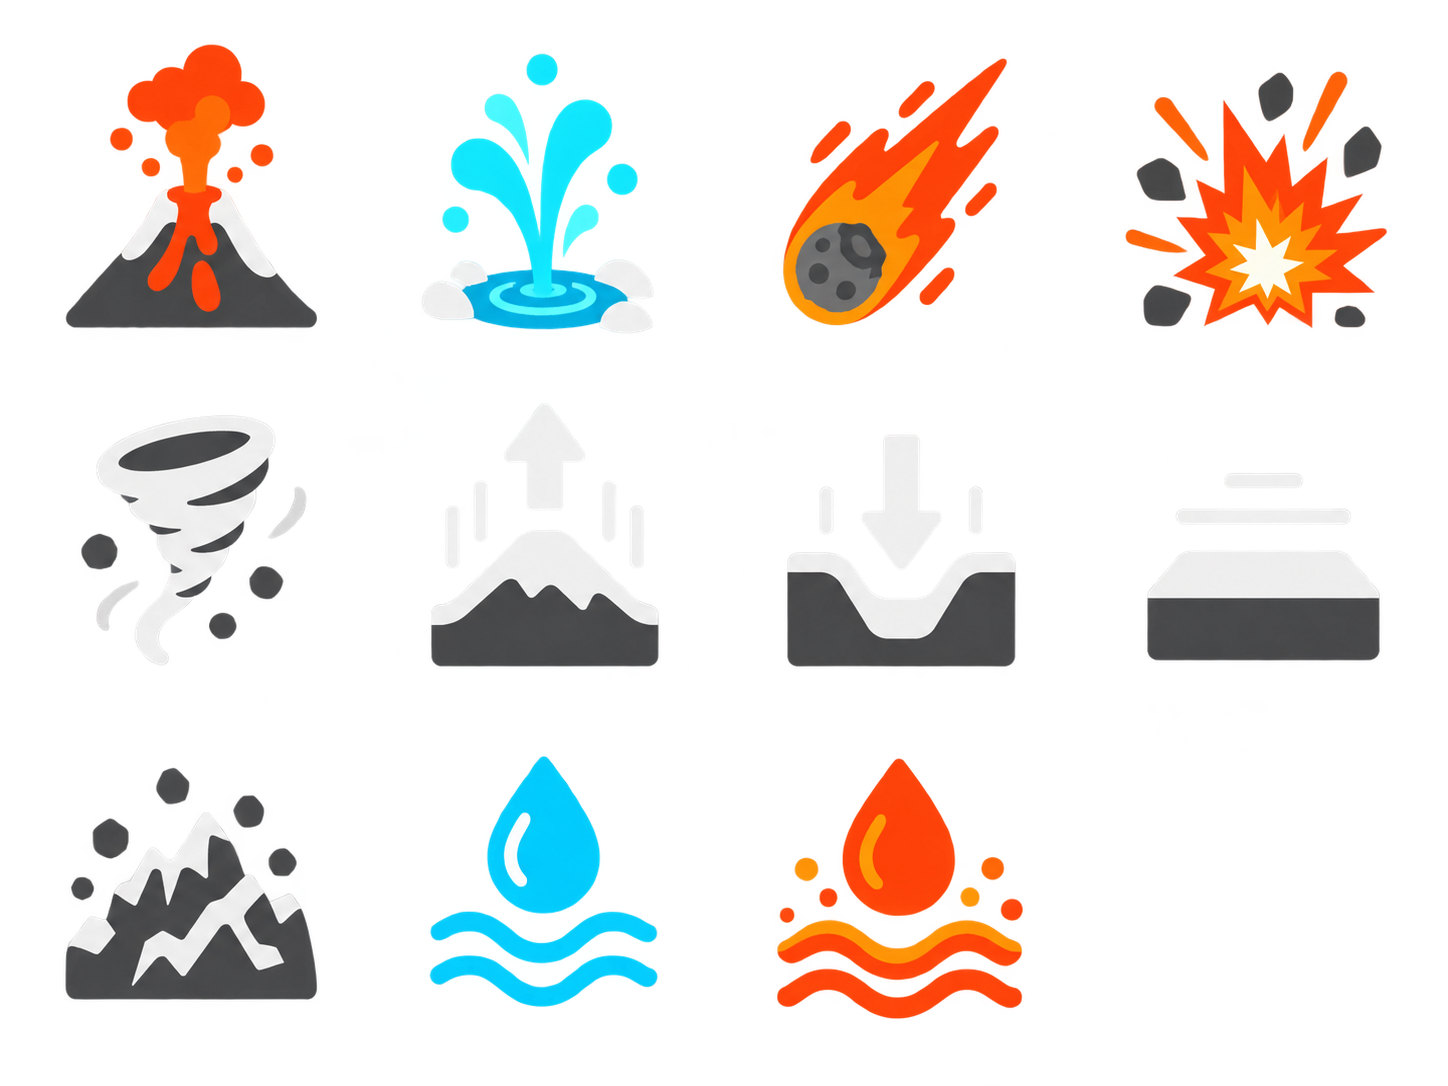
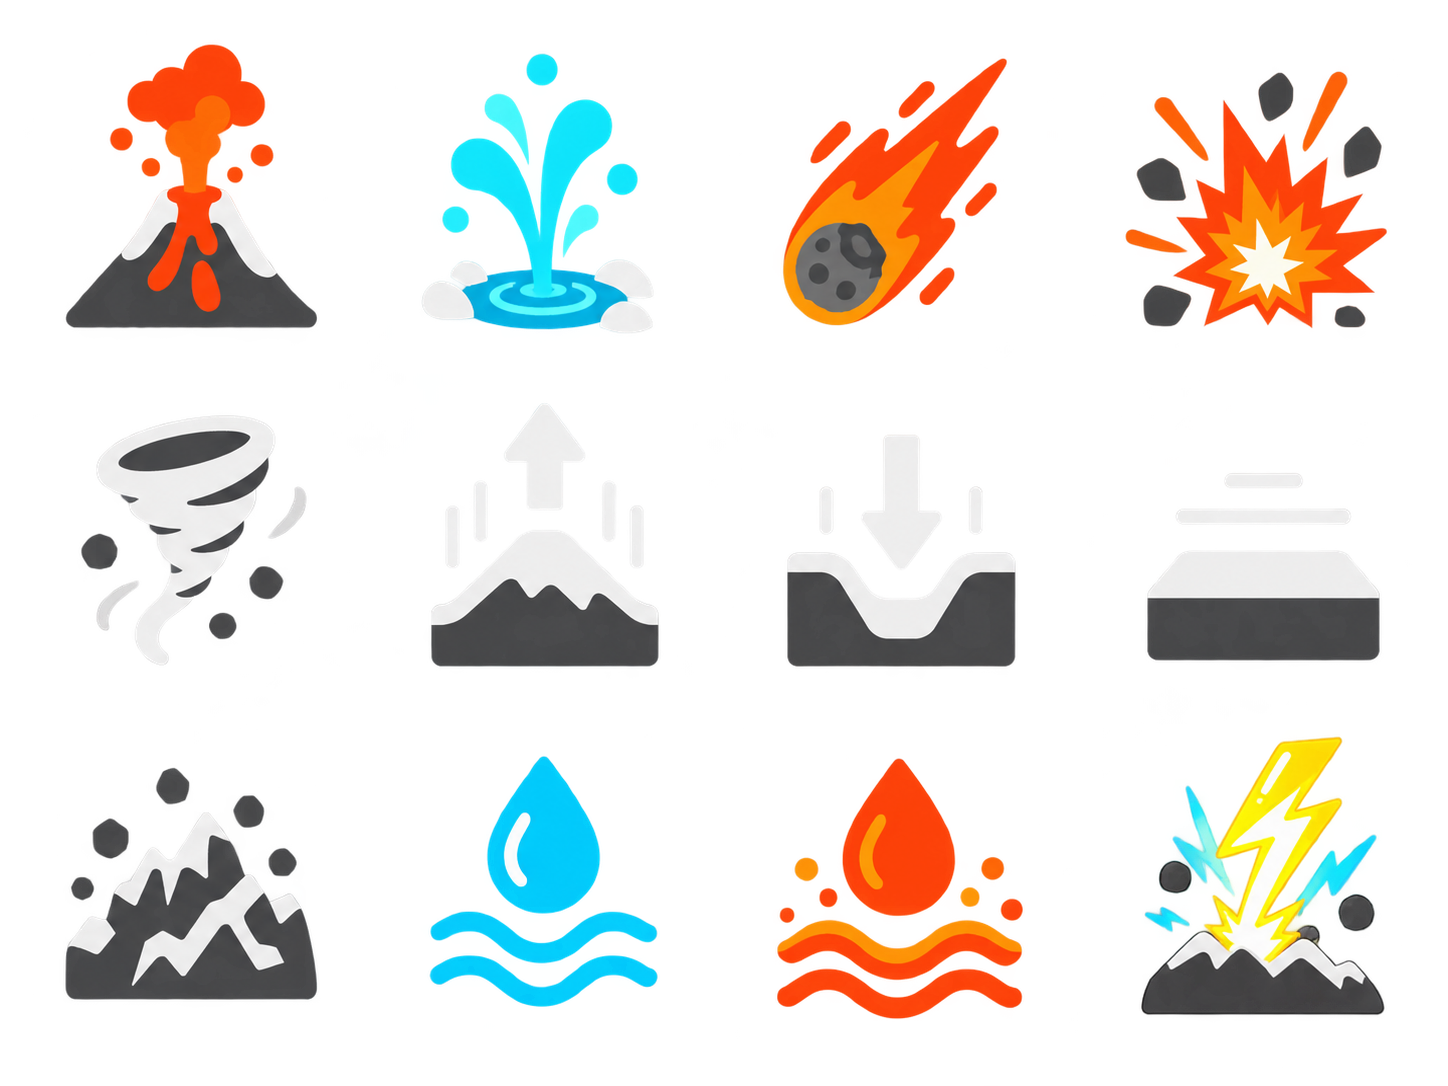
lightning tool

Changed region(s): [[0.7769, 0.6685, 0.9634, 0.942]]

diff --git a/src/Application.cpp b/src/Application.cpp
@@ -185,6 +185,7 @@ class AppState {
         Spring,
         Meteor,
         Explosion,
+        Lightning,
         TornadoOrigin,
         TornadoDirection,
         TerrainUp,
@@ -207,6 +208,7 @@ class AppState {
     double previous_;
     double simulation_time_ = 0.0;
     double day_time_ = 0.0;
+    std::mt19937 random_{ std::random_device{}() };
 
 public:
     AppState(GLFWwindow* window, const char* executable_path)
@@ -251,7 +253,8 @@ void AppState::frame() {
     Vec3 wind_direction{ std::cos(wind_direction_), 0.0f, std::sin(wind_direction_) };
     float cloud_top = cloud_base_ + cloud_thickness_;
     if (particle_simulation_enabled_)
-        volcanoes_.update(terrain_, elapsed, water_level_, wind_speed_, wind_direction);
+        volcanoes_.update(
+            terrain_, elapsed, water_level_, wind_speed_, wind_direction, meteor_size_);
     auto impact_strengths = volcanoes_.take_impact_strengths();
     if (camera_shake_enabled_) {
         for (float strength : impact_strengths)
@@ -876,8 +879,15 @@ void AppState::frame() {
                         volcanoes_.explosion_water_impact(
                             { position.x, water_level_, position.z }, physical_size);
                         explosions_.explode(position, physical_size);
-                    }
-                    if (placement_ != PlacementTool::Meteor)
+                    } else if (placement_ == PlacementTool::Lightning)
+                        lightning_.spawn_at(terrain_,
+                            position,
+                            water_level_,
+                            cloud_base_,
+                            cloud_top,
+                            volcanoes_);
+                    if (placement_ != PlacementTool::Meteor &&
+                        placement_ != PlacementTool::Lightning)
                         placement_ = PlacementTool::None;
                     placement_miss_ = false;
                 }
@@ -1048,6 +1058,7 @@ void AppState::frame() {
             { PlacementTool::RoughenTerrain, "##roughen", "Roughen terrain", 8 },
             { PlacementTool::AddWater, "##water", "Add water", 9 },
             { PlacementTool::AddLava, "##lava", "Add lava", 10 },
+            { PlacementTool::Lightning, "##lightning", "Lightning strike", 11 },
         };
         const ImTextureID placement_texture =
             static_cast<ImTextureID>(static_cast<intptr_t>(placement_tools_texture_));
@@ -1084,6 +1095,7 @@ void AppState::frame() {
                 : placement_ == PlacementTool::Spring    ? "Click terrain to place a spring."
                 : placement_ == PlacementTool::Meteor    ? "Click terrain to target a meteor."
                 : placement_ == PlacementTool::Explosion ? "Click terrain to detonate an explosion."
+                : placement_ == PlacementTool::Lightning ? "Click terrain to call down lightning."
                 : placement_ == PlacementTool::TornadoOrigin
                     ? "Click terrain to set the tornado origin."
                 : placement_ == PlacementTool::TornadoDirection
@@ -1142,19 +1154,34 @@ void AppState::frame() {
             selected_source_type_ = SourceType::None;
             panning_ = false;
             rotating_ = false;
-            Vec3 direction{ forward.x, 0, forward.z };
-            if (dot(direction, direction) < 0.001f)
-                direction = { 0, 0, 1 };
-            direction = normalize(direction);
-            aircraft_forward_ = direction;
+            constexpr float spawn_edge = 950.0f;
+            std::uniform_int_distribution<int> edge_distribution(0, 3);
+            std::uniform_real_distribution<float> edge_position_distribution(-900.0f, 900.0f);
+            float edge_position = edge_position_distribution(random_);
+            Vec3 spawn_position{};
+            switch (edge_distribution(random_)) {
+            case 0:
+                spawn_position = { -spawn_edge, 0, edge_position };
+                break;
+            case 1:
+                spawn_position = { spawn_edge, 0, edge_position };
+                break;
+            case 2:
+                spawn_position = { edge_position, 0, -spawn_edge };
+                break;
+            default:
+                spawn_position = { edge_position, 0, spawn_edge };
+                break;
+            }
+            aircraft_forward_ = normalize(Vec3{ -spawn_position.x, 0, -spawn_position.z });
             aircraft_right_ = normalize(cross(aircraft_forward_, Vec3{ 0, 1, 0 }));
             aircraft_up_ = { 0, 1, 0 };
             aircraft_velocity_ = aircraft_forward_ * 47.5f;
             aircraft_destroyed_ = false;
             Vec3 terrain_normal;
-            float surface = terrain_.surface(target_.x, target_.z, terrain_normal);
-            aircraft_position_ =
-                { target_.x, std::max(surface + 160.0f, water_level_ + 120.0f), target_.z };
+            float surface = terrain_.surface(spawn_position.x, spawn_position.z, terrain_normal);
+            spawn_position.y = std::max(surface + 160.0f, water_level_ + 120.0f);
+            aircraft_position_ = spawn_position;
             flight_camera_distance_ = 55.0273f;
             flight_camera_offset_ =
                 normalize(aircraft_forward_ * -52.0f + Vec3{ 0, 18.0f, 0 }) *
@@ -1178,10 +1205,10 @@ void AppState::frame() {
     ImGui::SetNextWindowPos(
         ImVec2(20 * ui_scale, (toolbar_height + 14.0f) * ui_scale), ImGuiCond_Always);
     ImGui::SetNextWindowBgAlpha(0.78f);
-    // ImGuiViewport* viewport = ImGui::GetMainViewport();
-    // ImGui::SetNextWindowSize(ImVec2(viewport->WorkSize.x / 2, viewport->WorkSize.y - 10),
-    // ImGuiCond_Always);
-    
+    const float panel_height = io.DisplaySize.y * 0.9f;
+    ImGui::SetNextWindowSizeConstraints(
+        ImVec2(0.0f, panel_height), ImVec2(io.DisplaySize.x, panel_height));
+
     static std::string label = "###earthsim";
     bool expanded = ImGui::Begin(label.c_str(),
         nullptr,
@@ -1240,6 +1267,11 @@ void AppState::frame() {
     ImGui::SetNextItemWidth(180 * ui_scale);
     ImGui::SliderFloat(
         "Meteor size", &meteor_size_, 0.1f, 5.0f, "%.2fx", ImGuiSliderFlags_AlwaysClamp);
+    ImGui::SetNextItemWidth(180 * ui_scale);
+    float meteor_frequency = volcanoes_.meteor_frequency();
+    if (ImGui::DragFloat(
+            "Meteor frequency", &meteor_frequency, 1.f, 0.f, 1.e6f, "%.1f / min"))
+        volcanoes_.set_meteor_frequency(meteor_frequency);
     ImGui::SetNextItemWidth(180 * ui_scale);
     ImGui::SliderFloat(
         "Explosion size", &explosion_size_, 0.25f, 5.0f, "%.2fx", ImGuiSliderFlags_AlwaysClamp);

diff --git a/src/Physics.cpp b/src/Physics.cpp
@@ -351,6 +351,11 @@ float Volcanoes::range(float low, float high) {
     return std::uniform_real_distribution<float>(low, high)(random_);
 }
 
+double Volcanoes::meteor_interval() {
+    double rate = std::max(double(meteor_frequency_) / 60.0, 1e-6);
+    return std::exponential_distribution<double>(rate)(random_);
+}
+
 Volcanoes::Volcanoes(const std::filesystem::path& directory, const Terrain& terrain)
     : gpu_(directory, terrain) {
     Vec3 reference = blackbody(1600);
@@ -577,6 +582,14 @@ void Volcanoes::set_spring_spawn_rate(float rate) {
     spring_spawn_rate_ = std::max(0.0f, rate);
 }
 
+float Volcanoes::meteor_frequency() const {
+    return meteor_frequency_;
+}
+
+void Volcanoes::set_meteor_frequency(float frequency) {
+    meteor_frequency_ = frequency;
+}
+
 float Volcanoes::erosion_speed() const {
     return erosion_speed_;
 }
@@ -741,7 +754,8 @@ void Volcanoes::update(Terrain& terrain,
     double elapsed,
     float water_level,
     float wind_speed,
-    Vec3 wind_direction) {
+    Vec3 wind_direction,
+    float meteor_size_scale) {
     constexpr float dt = 1.0f / 120.0f;
     // The shared clock bounds real elapsed time before applying the speed multiplier.
     std::vector<int32_t> erosion_delta;
@@ -751,6 +765,26 @@ void Volcanoes::update(Terrain& terrain,
             terrain.apply_height_deltas(erosion_delta, 1.0f / GpuSimulation::terrain_delta_scale_);
     if (terrain_eroded)
         terrain_changed(terrain);
+
+    if (meteor_frequency_ != scheduled_meteor_frequency_) {
+        scheduled_meteor_frequency_ = meteor_frequency_;
+        until_next_meteor_ = -1;
+    }
+    if (meteor_frequency_ <= 0) {
+        until_next_meteor_ = -1;
+    } else {
+        if (until_next_meteor_ < 0)
+            until_next_meteor_ = meteor_interval();
+        until_next_meteor_ -= elapsed;
+        while (until_next_meteor_ <= 0) {
+            float target_x = range(-900.0f, 900.0f);
+            float target_z = range(-900.0f, 900.0f);
+            Vec3 normal;
+            float target_y = terrain.surface(target_x, target_z, normal);
+            launch_meteor({ target_x, target_y, target_z }, meteor_size_scale);
+            until_next_meteor_ += meteor_interval();
+        }
+    }
 
     accumulator_ += elapsed;
     erosion_readback_accumulator_ += elapsed;
@@ -1151,10 +1185,31 @@ void Lightning::spawn(const Terrain& terrain,
         range(-820, 820) };
     float target_x = std::clamp(origin.x + range(-180, 180), -980.0f, 980.0f);
     float target_z = std::clamp(origin.z + range(-180, 180), -980.0f, 980.0f);
+    spawn_between(terrain, origin, { target_x, 0, target_z }, water_level, particles);
+}
+
+void Lightning::spawn_at(const Terrain& terrain,
+    Vec3 target,
+    float water_level,
+    float cloud_base,
+    float cloud_top,
+    Volcanoes& particles) {
+    target.x = std::clamp(target.x, -980.0f, 980.0f);
+    target.z = std::clamp(target.z, -980.0f, 980.0f);
+    Vec3 origin{ std::clamp(target.x + range(-180, 180), -820.0f, 820.0f),
+        range(cloud_base + 0.33f * (cloud_top - cloud_base), cloud_top - 30.0f),
+        std::clamp(target.z + range(-180, 180), -820.0f, 820.0f) };
+    spawn_between(terrain, origin, target, water_level, particles);
+}
+
+void Lightning::spawn_between(
+    const Terrain& terrain, Vec3 origin, Vec3 target, float water_level, Volcanoes& particles) {
+    target.x = std::clamp(target.x, -980.0f, 980.0f);
+    target.z = std::clamp(target.z, -980.0f, 980.0f);
     Vec3 normal;
-    float ground = terrain.surface(target_x, target_z, normal);
+    float ground = terrain.surface(target.x, target.z, normal);
     bool hits_water = ground < water_level;
-    Vec3 target{ target_x, (hits_water ? water_level : ground) + 1.0f, target_z };
+    target.y = (hits_water ? water_level : ground) + 1.0f;
     Strike strike;
     auto main_path = path(origin, target, 22, 24.0f);
     append_path(strike, main_path, 1.0f, 0.85f);

diff --git a/src/Physics.hpp b/src/Physics.hpp
@@ -104,12 +104,16 @@ private:
     float spring_emission_ = 0;
     float lava_spawn_rate_ = 90.0f;
     float spring_spawn_rate_ = 90.0f;
+    double until_next_meteor_ = -1;
+    float meteor_frequency_ = 1.0f;
+    float scheduled_meteor_frequency_ = 1.0f;
     float particle_lifetime_ = 33.0f;
     float particle_brightness_ = 1.0f;
     float erosion_speed_ = 50.0f;
     bool erosion_simulation_enabled_ = true;
     bool particle_interactions_ = true;
     float range(float low, float high);
+    double meteor_interval();
     void add_surface_particles(
         const Terrain& terrain, Vec3 center, float radius, float spacing, bool water);
 
@@ -146,6 +150,8 @@ public:
     void set_lava_spawn_rate(float rate);
     float spring_spawn_rate() const;
     void set_spring_spawn_rate(float rate);
+    float meteor_frequency() const;
+    void set_meteor_frequency(float frequency);
     float erosion_speed() const;
     void set_erosion_speed(float speed);
     bool erosion_simulation_enabled() const;
@@ -160,8 +166,12 @@ public:
     void lightning_water_impact(Vec3 position, size_t particle_count);
     void add_aircraft_vapor(
         Vec3 position, Vec3 forward, Vec3 right, Vec3 up, size_t particle_pairs);
-    void update(
-        Terrain& terrain, double elapsed, float water_level, float wind_speed, Vec3 wind_direction);
+    void update(Terrain& terrain,
+        double elapsed,
+        float water_level,
+        float wind_speed,
+        Vec3 wind_direction,
+        float meteor_size_scale);
     void prepare_draw(const Mat4& vp,
         const Mat4& light_vp,
         GLuint shadow_map,
@@ -229,6 +239,8 @@ class Lightning {
     double until_next_ = -1;
     float frequency_ = 6.0f;
     float scheduled_frequency_ = 6.0f;
+    void spawn_between(
+        const Terrain& terrain, Vec3 origin, Vec3 target, float water_level, Volcanoes& particles);
 
 public:
     explicit Lightning(const std::filesystem::path& directory);
@@ -237,6 +249,12 @@ public:
     std::vector<Vec3> path(Vec3 start, Vec3 end, int count, float jitter);
     void append_path(Strike& strike, const std::vector<Vec3>& points, float strength, float width);
     void spawn(const Terrain& terrain,
+        float water_level,
+        float cloud_base,
+        float cloud_top,
+        Volcanoes& particles);
+    void spawn_at(const Terrain& terrain,
+        Vec3 target,
         float water_level,
         float cloud_base,
         float cloud_top,
